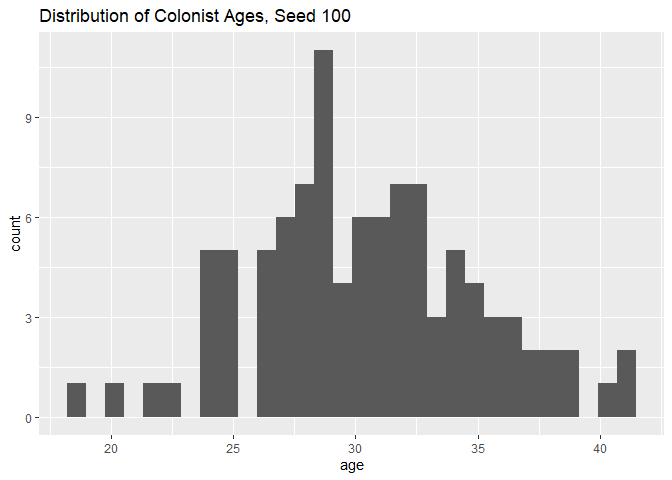
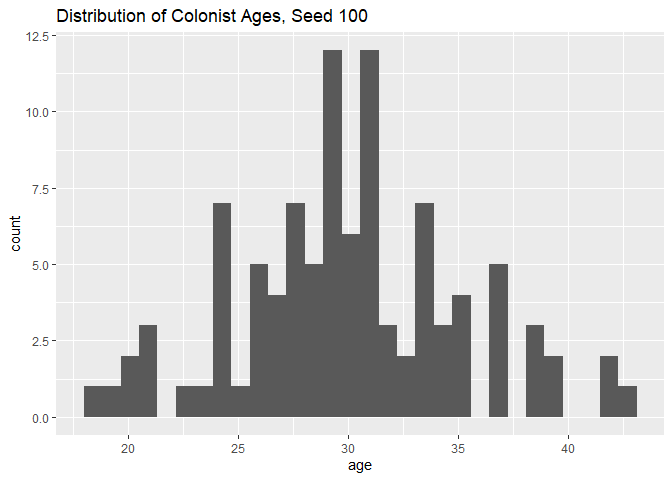
through 3.2

diff --git a/lab-12.md b/lab-12.md
@@ -58,7 +58,7 @@ seeds. So I redid this, with different seeds.
 ``` r
 set.seed(100)
 df_colonists_seed100 <- data.frame(id = 1:100, age = rnorm(100, mean = 30, sd = 5))
-ggplot(data = df_colonists, mapping = aes(x = age)) +
+ggplot(data = df_colonists_seed100, mapping = aes(x = age)) +
   geom_histogram() +
   labs(title = "Distribution of Colonist Ages, Seed 100")
 ```
@@ -68,7 +68,7 @@ ggplot(data = df_colonists, mapping = aes(x = age)) +
 ``` r
 set.seed(1000)
 df_colonists_seed1000 <- data.frame(id = 1:100, age = rnorm(100, mean = 30, sd = 5))
-ggplot(data = df_colonists, mapping = aes(x = age)) +
+ggplot(data = df_colonists_seed1000, mapping = aes(x = age)) +
   geom_histogram() +
   labs(title = "Distribution of Colonist Ages, Seed 1000")
 ```
@@ -79,6 +79,23 @@ The distributions are slightly different, as would be expected.
 
 Note in what you (Mason) showed, they were on the same graph. I’m not
 seeing how you did that. That would be a good thing to discuss too.
+
+- create 3 vectors, and then combine them into a dataframe with
+- df \<- data.frame (age, age2, age3)
+
+The above two lines were from Mason, so I’m going to try this out.
+
+``` r
+set.seed(123)
+age_vector_123 <- rnorm(100, mean = 30, sd = 5)
+set.seed(100)
+age_vector_100 <- rnorm(100, mean = 30, sd = 5)
+set.seed(1000)
+age_vector_1000 <- rnorm(100, mean = 30, sd = 5)
+age_df <- data.frame (age_vector_123, age_vector_100, age_vector_1000)
+```
+
+Yea. This worked!
 
 > What roles would these colonists have? Let’s decide….. We need
 > engineers, scientists, and medics in equal numbers. We’ll create a
@@ -229,7 +246,7 @@ make the following other assumptions:
     ability, and there is substantial overlap among the distributions
 3)  In general, the problem solving ability is quite high
 
-I’ll make the means 74, 75, and 76, and with a constant sd of 6. In
+I’ll make the means 72, 74, and 76, and with a constant sd of 6. In
 actuality, the sd should probably be larger, but I don’t want to get a
 score greater than 100 and i’m not sure how to deal with that
 possibility. There also should probably be some negative skew, but this
@@ -237,11 +254,91 @@ should suffice for now.
 
 ``` r
 df_colonists$problem_solving[df_colonists$role == "engineer"] <- rnorm(sum(df_colonists$role == "engineer"), mean = 76, sd = 6)
-df_colonists$problem_solving[df_colonists$role == "scientist"] <- rnorm(sum(df_colonists$role == "scientist"), mean = 75, sd = 6)
-df_colonists$problem_solving[df_colonists$role == "medic"] <- rnorm(sum(df_colonists$role == "medic"), mean = 74, sd = 6)
+df_colonists$problem_solving[df_colonists$role == "scientist"] <- rnorm(sum(df_colonists$role == "scientist"), mean = 74, sd = 6)
+df_colonists$problem_solving[df_colonists$role == "medic"] <- rnorm(sum(df_colonists$role == "medic"), mean = 72, sd = 6)
 ```
 
-This is as far as I got. This code worked (I think), but I don’t
-understand why. In particular, why is the sum command there?
+Checking means and sd’s
 
-I Also want to get means and sd’s per group as a check.
+``` r
+df_colonists %>% 
+  filter(role == "scientist") %>% 
+  summarize(
+    mean_ps_scientist = mean(problem_solving),
+    sd_ps_scientist = sd(problem_solving)
+    )
+```
+
+    ##   mean_ps_scientist sd_ps_scientist
+    ## 1          73.75128        6.394761
+
+``` r
+df_colonists %>% 
+  filter(role == "engineer") %>% 
+  summarize(
+    mean_ps_engineer = mean(problem_solving),
+    sd_ps_engineer = sd(problem_solving)
+    )
+```
+
+    ##   mean_ps_engineer sd_ps_engineer
+    ## 1         76.43823       6.708704
+
+``` r
+df_colonists %>% 
+  filter(role == "medic") %>% 
+  summarize(
+    mean_ps_medic = mean(problem_solving),
+    sd_ps_medic = sd(problem_solving)
+    )
+```
+
+    ##   mean_ps_medic sd_ps_medic
+    ## 1       71.5583    6.769331
+
+This seems to have worked (I tried it with a few different seeds and got
+the same rank ordering), though with the relatively small n the means
+and sd’s are a bit off. That’s to be expected.
+
+One question: In the code chunk “rnorm(sum(df_colonists\$role
+==”engineer”), mean = 76, sd = 6)“, why is the term”sum” there? I’m not
+seeing what is being summed.
+
+> 3.2. Simulate Resilience and Agreeableness Parameters for Simulation:
+> n = 100: We are simulating attributes for 100 colonists. mu = c( 50,
+> 50): Represents the average scores for Resilience and Agreeableness.
+> Sigma = matrix(c(100, 50, 50, 100), ncol = 2): The covariance matrix,
+> where diagonals represent variances and the off-diagonals represent
+> the covariance between the traits.
+
+``` r
+library(MASS)
+
+# Define mean and covariance matrix
+mean_traits <- c(50, 50)
+cov_matrix <- matrix(c(100, 50, 
+                       50, 100), ncol = 2)
+
+# Generate correlated data
+
+traits_data <- mvrnorm(n = 100, mu = mean_traits, Sigma = cov_matrix, empirical = FALSE)
+
+colnames(traits_data) <- c("resilience", "agreeableness")
+
+df_colonists <- cbind(df_colonists, traits_data)
+```
+
+> But, now, we need to simulate more attributes for our colonists that
+> don’t all have the same summary statistics. We need to simulate the
+> big five personality traits: openness, conscientiousness,
+> extraversion, agreeableness, and neuroticism. These traits are
+> essential for understanding how colonists will interact with each
+> other and cope with the challenges of living on Mars. Your task to
+> simulate these traits using the mvrnorm function, using parameters
+> that would make sense for these traits, and examine how closely your
+> colonists match up with your population parameters. 3.3. Simulate Big
+> Five Traits using the Correlation Matrix provided and examine how
+> closely your colonists match up with your parameters. Population
+> Parameters for Big Five Traits I’ve provided a correlation matrix from
+> Park et al. (2020)6 7 that you can use to get you started on
+> simulating these traits.
